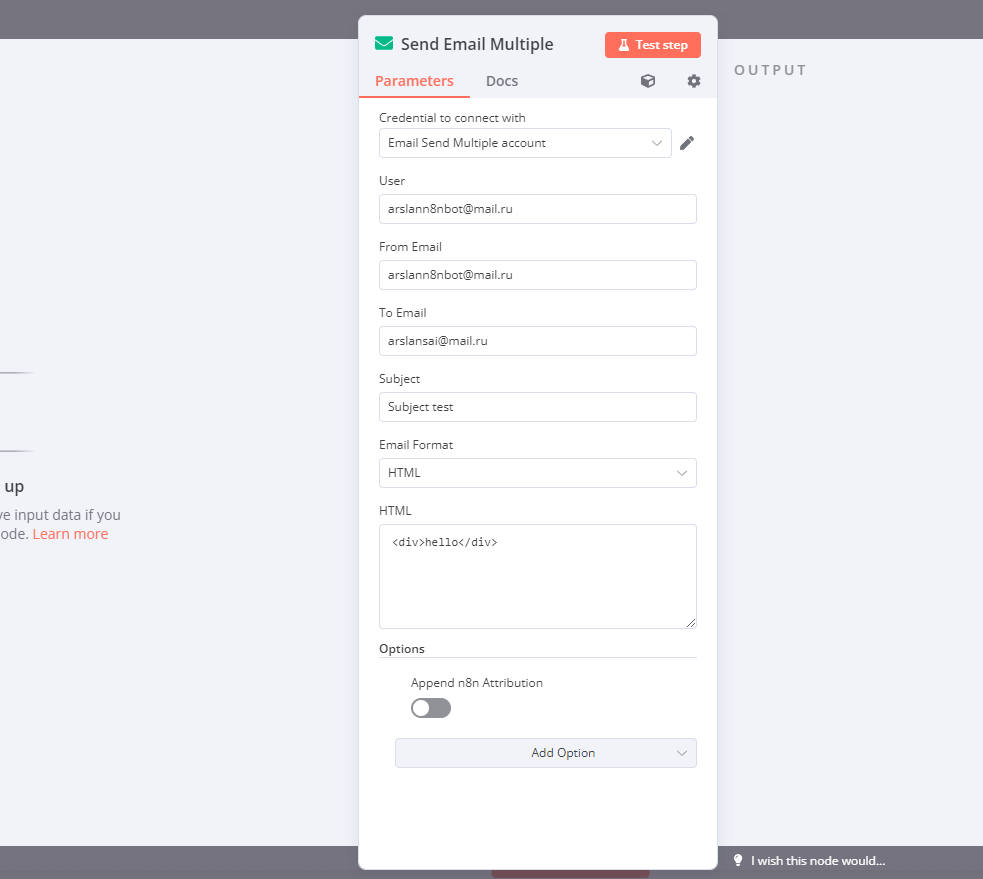
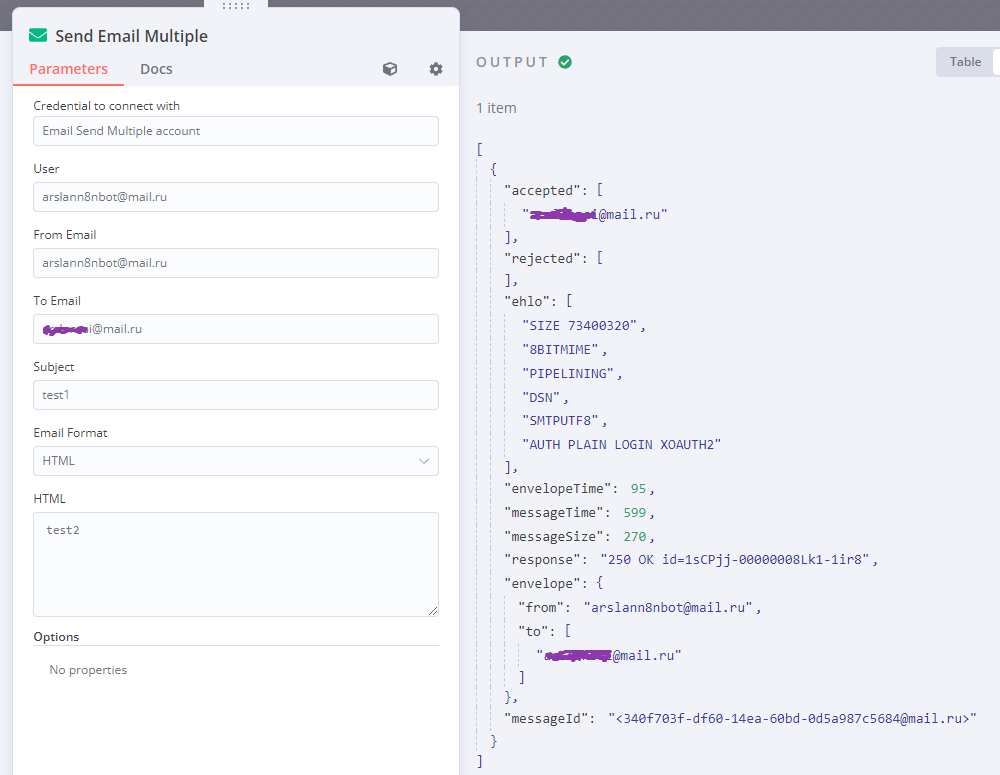
0.1.7 fix bugs, readme

diff --git a/nodes/EmailSendMultiple/send.operation.ts b/nodes/EmailSendMultiple/send.operation.ts
@@ -243,9 +243,9 @@ function configureTransport(credentials: EmailSendMultipleCredentialsData, optio
 	const emailSendMultiple = {} as any;
 	credentials.emailSendMultiple.split('\n').forEach((account) => {
 		const accountSettings = parseAccount(account);
-		if (accountSettings?.name) {
-			emailSendMultiple[accountSettings.name] = accountSettings;
-			if (accountSettings.name === user) {
+		if (accountSettings?.user) {
+			emailSendMultiple[accountSettings.user] = accountSettings;
+			if (accountSettings.user === user) {
 				userCredentials = accountSettings;
 			}
 		}
@@ -277,8 +277,8 @@ function configureTransport(credentials: EmailSendMultipleCredentialsData, optio
 
 	const connectionOptions: SMTPTransport.Options = {
 		host: userCredentials.host as string,
-		port: userCredentials.port as number,
-		secure: userCredentials.secure as boolean,
+		port: +userCredentials.port as number,
+		secure: userCredentials.secure?.toLowerCase() === 'true',
 	};
 
 	if (typeof userCredentials.hostName === 'string' && userCredentials.hostName) {

diff --git a/nodes/EmailSendMultiple/EmailSendMultiple.node.ts b/nodes/EmailSendMultiple/EmailSendMultiple.node.ts
@@ -14,9 +14,9 @@ import * as send from './send.operation';
 const versionDescription: INodeTypeDescription = {
 	displayName: 'Send Email Multiple',
 	name: 'emailSendMultiple',
-	icon: 'fa:envelope',
+	icon: 'fa:envelopes-bulk',
 	group: ['output'],
-	version: [2],
+	version: [1],
 	description: 'Multiple sends an email using SMTP protocol',
 	defaults: {
 		name: 'Send Email Multiple',

diff --git a/README.md b/README.md
@@ -1,4 +1,4 @@
-# <img src="nodes/EmailSendMultiple/globals-icon-60px.png"  height="60" style="margin-bottom: -20px;"> n8n-nodes-email-send-multiple
+# <img src="./docs/images/usage/icon.png"  height="60" style="margin-bottom: -20px;"> n8n-nodes-email-send-multiple
 
 This is an n8n community node. It lets you create multiple mail send.
 
@@ -18,7 +18,7 @@ This node uses N8N Credential to store the email account variables.
    ![Send Email Multiple node](./docs/images/usage/1_select_node.png)
 2. In the node configuration, either select an existing credential or create a new one.
 3. Add the key-value pairs you want to use as Send Email Multiple.
-   ![Define credential](./docs/images/usage/2_define_constants.png)
+   ![Define credential](./docs/images/usage/2_define_node.png)
 4. Use the Send Email Multiple in your workflow
 	 ![Use credential](./docs/images/usage/3_use_node.png)
 
